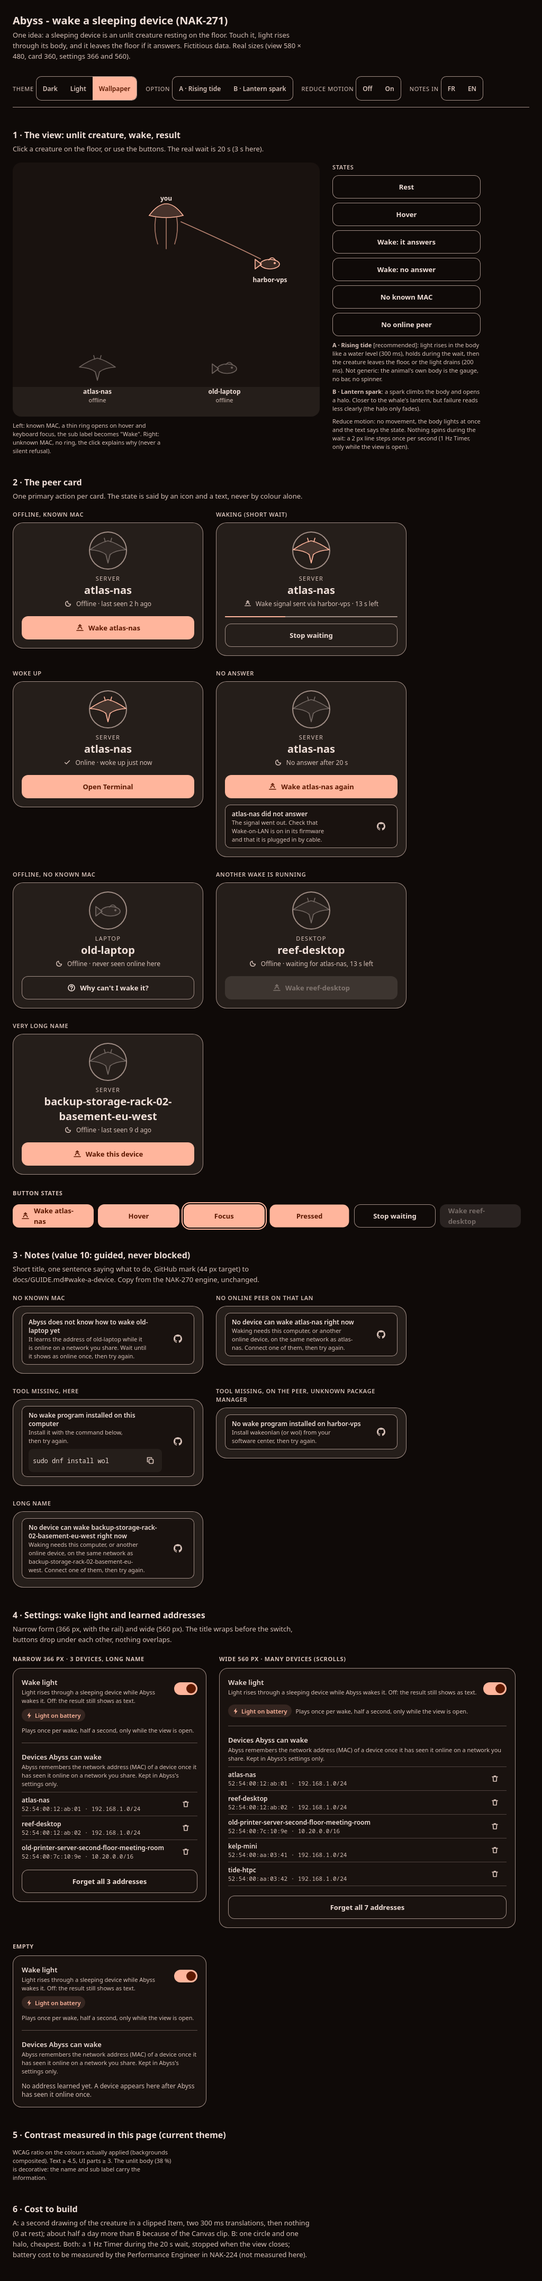
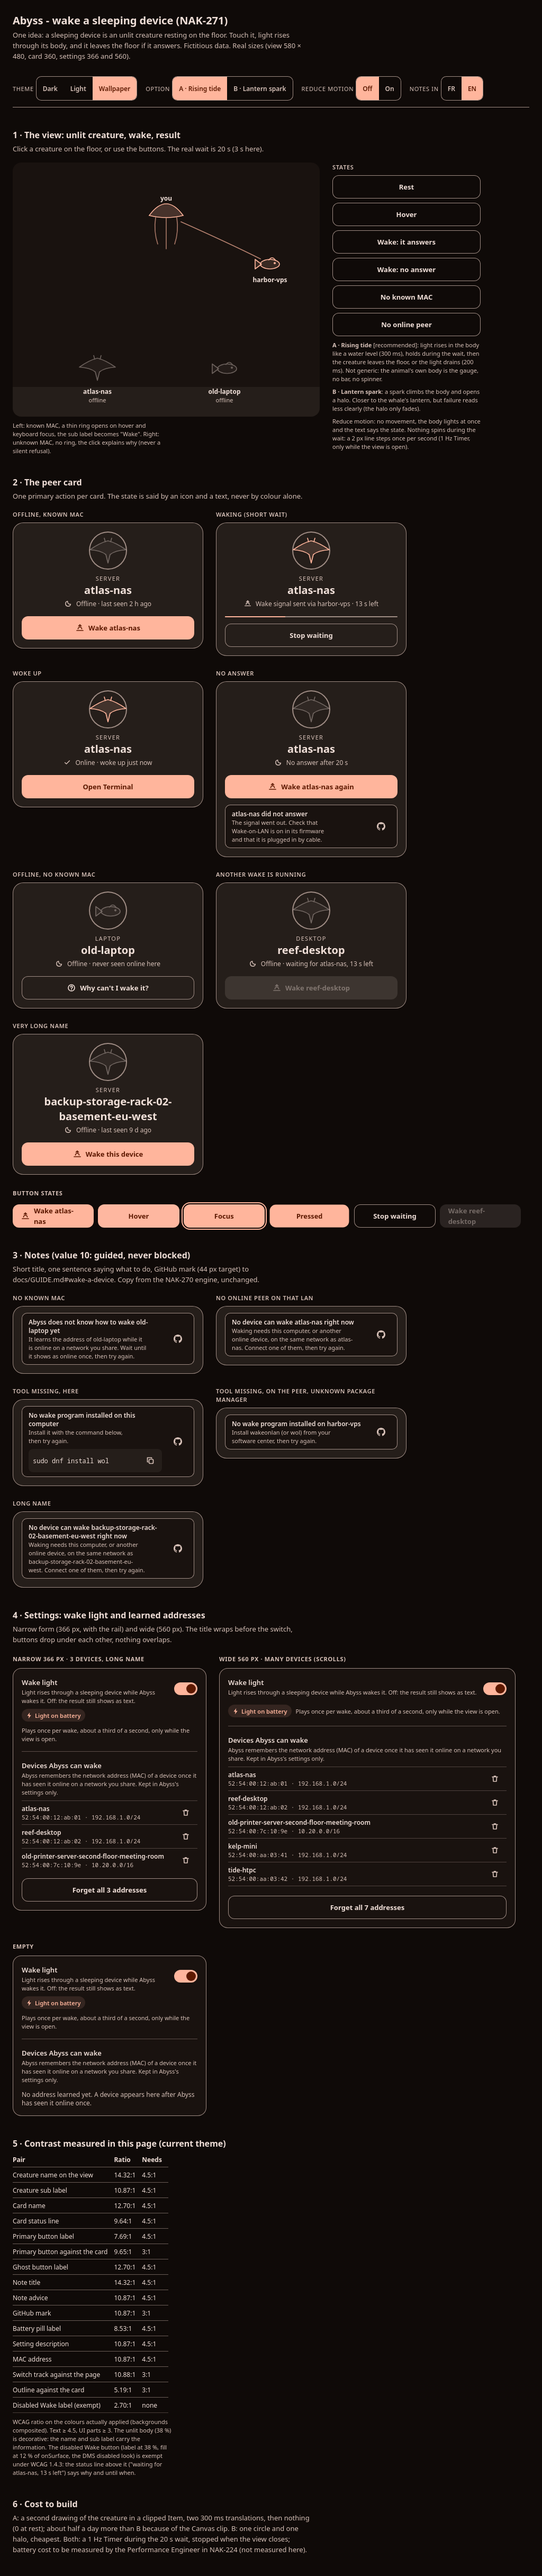
docs(design): wake mockup switches wired, evidence with B and Reduce motion tiles (NAK-271)

diff --git a/docs/design/wake/wake.html b/docs/design/wake/wake.html
@@ -216,7 +216,7 @@ td.bad{color:var(--error);font-weight:700}
 
 <h2>5 · <i data-fr="Contrastes mesurés dans cette page (thème courant)">Contrast measured in this page (current theme)</i></h2>
 <table id="ctr"></table>
-<p class="cap"><i data-fr="Calcul WCAG sur les couleurs réellement appliquées (fonds composés). Texte ≥ 4.5, parties d'interface ≥ 3. Le corps éteint (38 %) est décoratif : le nom et le sous-titre portent l'information.">WCAG ratio on the colours actually applied (backgrounds composited). Text ≥ 4.5, UI parts ≥ 3. The unlit body (38 %) is decorative: the name and sub label carry the information.</i></p>
+<p class="cap"><i data-fr="Calcul WCAG sur les couleurs réellement appliquées (fonds composés). Texte ≥ 4.5, parties d'interface ≥ 3. Le corps éteint (38 %) est décoratif : le nom et le sous-titre portent l'information. Le bouton Wake désactivé (texte à 38 %, fond à 12 % de onSurface, l'aspect désactivé de DMS) est exempté par WCAG 1.4.3 : la ligne d'état au-dessus (« waiting for atlas-nas, 13 s left ») dit pourquoi et jusqu'à quand.">WCAG ratio on the colours actually applied (backgrounds composited). Text ≥ 4.5, UI parts ≥ 3. The unlit body (38 %) is decorative: the name and sub label carry the information. The disabled Wake button (label at 38 %, fill at 12 % of onSurface, the DMS disabled look) is exempt under WCAG 1.4.3: the status line above it ("waiting for atlas-nas, 13 s left") says why and until when.</i></p>
 
 <h2>6 · <i data-fr="Coût de construction">Cost to build</i></h2>
 <p class="lead"><i data-fr="A : un second dessin de la créature dans un Item à clip, deux translations de 300 ms, puis plus rien (0 au repos) ; environ une demi-journée de plus que B à cause du clip sur Canvas. B : un cercle et un halo, le moins cher. Les deux : Timer 1 Hz pendant 20 s d'attente, arrêté vue fermée ; coût batterie à mesurer par le Performance Engineer dans NAK-224 (non mesuré ici).">A: a second drawing of the creature in a clipped Item, two 300 ms translations, then nothing (0 at rest); about half a day more than B because of the Canvas clip. B: one circle and one halo, cheapest. Both: a 1 Hz Timer during the 20 s wait, stopped when the view closes; battery cost to be measured by the Performance Engineer in NAK-224 (not measured here).</i></p>
@@ -250,7 +250,7 @@ $('#notes').innerHTML=[
 const macs=[['atlas-nas','52:54:00:12:ab:01','192.168.1.0/24'],['reef-desktop','52:54:00:12:ab:02','192.168.1.0/24'],['old-printer-server-second-floor-meeting-room','52:54:00:7c:10:9e','10.20.0.0/16'],['kelp-mini','52:54:00:aa:03:41','192.168.1.0/24'],['tide-htpc','52:54:00:aa:03:42','192.168.1.0/24'],['coral-build','52:54:00:aa:03:43','10.20.0.0/16'],['drift-pi','52:54:00:aa:03:44','192.168.1.0/24']];
 const setBox=(cls,h,rows)=>`<div><h3 style="font-size:11px;color:var(--dim);text-transform:uppercase;letter-spacing:.06em;margin:0 0 8px">${h}</h3><div class="set ${cls}">
  <div class="srow"><div><div class="st1">Wake light</div><div class="st2">Light rises through a sleeping device while Abyss wakes it. Off: the result still shows as text.</div></div><button class="sw" role="switch" aria-checked="true" aria-label="Wake light"><i></i></button></div>
- <div class="pillrow"><span class="pill">${ico('bolt',13)}Light on battery</span><span class="st2">Plays once per wake, half a second, only while the view is open.</span></div>
+ <div class="pillrow"><span class="pill">${ico('bolt',13)}Light on battery</span><span class="st2">Plays once per wake, about a third of a second, only while the view is open.</span></div>
  <div class="sep"></div>
  <div class="st1">Devices Abyss can wake</div><div class="st2">Abyss remembers the network address (MAC) of a device once it has seen it online on a network you share. Kept in Abyss's settings only.</div>
  ${rows.length?`<div class="list" tabindex="0">${rows.map(m=>`<div class="mac"><div><div class="n">${m[0]}</div><div class="a">${m[1]} · ${m[2]}</div></div><button class="x" aria-label="Forget ${m[0]}">${ico('bin')}</button></div>`).join('')}</div>
@@ -269,22 +269,20 @@ function wake(ok){reset();c1.classList.remove('can');c1.classList.add('rise','li
 c1.onclick=()=>wake(true);$('#c2').onclick=()=>showNote('nomac');
 document.querySelectorAll('[data-s]').forEach(b=>b.onclick=()=>{const s=b.dataset.s;if(s=='rest')reset();else if(s=='hover'){reset();c1.classList.add('hov')}else if(s=='woke')wake(true);else if(s=='none')wake(false);else showNote(s)});
 
-/* switches */
-const fr={};document.querySelectorAll('[data-fr]').forEach(e=>e.dataset.en=e.textContent);
-function lang(v){document.querySelectorAll('[data-fr]').forEach(e=>e.textContent=v=='fr'?e.dataset.fr:e.dataset.en)}
-document.querySelectorAll('.seg').forEach(g=>{const bs=[...g.children],vals=bs.map(b=>b.dataset.v).filter(Boolean);
- const set=v=>{bs.forEach(b=>b.setAttribute('aria-pressed',b.dataset.v==v));if(g.dataset.g=='lang')lang(v);else{vals.forEach(x=>document.body.classList.remove(x));if(v)document.body.classList.add(v)}measure()};
- bs.forEach(b=>b.onclick=()=>set(b.dataset.v));set(g.dataset.g=='lang'?'fr':g.dataset.g=='opt'?'optA':'')});
-
 /* contrast: composite every ancestor background, then WCAG ratio */
-function rgba(s){const d=document.createElement('canvas').getContext('2d');d.fillStyle='#000';d.fillStyle=s;d.fillRect(0,0,1,1);const m=getComputedStyle(Object.assign(document.createElement('i'),{style:'color:'+s}));const c=document.createElement('canvas');c.width=c.height=1;const x=c.getContext('2d');x.clearRect(0,0,1,1);x.fillStyle=s;x.fillRect(0,0,1,1);const p=x.getImageData(0,0,1,1).data;return[p[0],p[1],p[2],p[3]/255]}
+function rgba(s){const c=document.createElement('canvas');c.width=c.height=1;const x=c.getContext('2d');x.fillStyle=s;x.fillRect(0,0,1,1);const p=x.getImageData(0,0,1,1).data;return[p[0],p[1],p[2],p[3]/255]}
 const over=(f,b)=>[0,1,2].map(i=>f[i]*f[3]+b[i]*(1-f[3])).concat(1);
 function bgOf(e){const ch=[];for(let n=e;n&&n.nodeType==1;n=n.parentElement)ch.push(rgba(getComputedStyle(n).backgroundColor));let b=[255,255,255,1];ch.reverse().forEach(c=>b=over(c,b));return b}
 const lum=c=>[0,1,2].map(i=>{const v=c[i]/255;return v<=.03928?v/12.92:((v+.055)/1.055)**2.4}).reduce((a,v,i)=>a+v*[.2126,.7152,.0722][i],0);
 function ratio(e,prop){const b=bgOf(prop=='self'?e.parentElement:e),f=over(rgba(prop=='self'?getComputedStyle(e).backgroundColor:getComputedStyle(e)[prop||'color']),b),a=lum(f),c=lum(b);return(Math.max(a,c)+.05)/(Math.min(a,c)+.05)}
-function measure(){const rows=[['Creature name on the view','.cr .nm','color',4.5],['Creature sub label','.cr .sub','color',4.5],['Card name','.card .name','color',4.5],['Card status line','.card .st','color',4.5],['Primary button label','.card .btn:not(.ghost):not([disabled])','color',4.5],['Primary button against the card','.card .btn:not(.ghost):not([disabled])','self',3],['Ghost button label','.card .btn.ghost','color',4.5],['Note title','.hn b','color',4.5],['Note advice','.hn span','color',4.5],['GitHub mark','.hn .gh','color',3],['Battery pill label','.pill','color',4.5],['Setting description','.set .st2','color',4.5],['MAC address','.mac .a','color',4.5],['Switch track against the page','.sw','self',3],['Outline against the card','.card','borderTopColor',3]];
- $('#ctr').innerHTML='<tr><th>Pair</th><th>Ratio</th><th>Needs</th></tr>'+rows.map(([n,s,p,min])=>{const e=$(s);if(!e)return'';const r=ratio(e,p);return`<tr><td>${n}</td><td class="${r<min?'bad':''}">${r.toFixed(2)}:1</td><td>${min}:1</td></tr>`}).join('')}
-measure();
+function measure(){const rows=[['Creature name on the view','.cr .nm','color',4.5],['Creature sub label','.cr .sub','color',4.5],['Card name','.card .name','color',4.5],['Card status line','.card .st','color',4.5],['Primary button label','.card .btn:not(.ghost):not([disabled])','color',4.5],['Primary button against the card','.card .btn:not(.ghost):not([disabled])','self',3],['Ghost button label','.card .btn.ghost','color',4.5],['Note title','.hn b','color',4.5],['Note advice','.hn span','color',4.5],['GitHub mark','.hn .gh','color',3],['Battery pill label','.pill','color',4.5],['Setting description','.set .st2','color',4.5],['MAC address','.mac .a','color',4.5],['Switch track against the page','.sw','self',3],['Outline against the card','.card','borderTopColor',3],['Disabled Wake label (exempt)','.card .btn[disabled]','color',0]];
+ $('#ctr').innerHTML='<tr><th>Pair</th><th>Ratio</th><th>Needs</th></tr>'+rows.map(([n,s,p,min])=>{const e=$(s);if(!e)return'';const r=ratio(e,p);return`<tr><td>${n}</td><td class="${r<min?'bad':''}">${r.toFixed(2)}:1</td><td>${min?min+':1':'none'}</td></tr>`}).join('')}
+/* switches: declared last, each one re-measures and so needs the contrast helpers above */
+document.querySelectorAll('[data-fr]').forEach(e=>e.dataset.en=e.textContent);
+function lang(v){document.querySelectorAll('[data-fr]').forEach(e=>e.textContent=v=='fr'?e.dataset.fr:e.dataset.en)}
+document.querySelectorAll('.seg').forEach(g=>{const bs=[...g.children],vals=bs.map(b=>b.dataset.v).filter(Boolean);
+ const set=v=>{bs.forEach(b=>b.setAttribute('aria-pressed',b.dataset.v==v));if(g.dataset.g=='lang')lang(v);else{vals.forEach(x=>document.body.classList.remove(x));if(v)document.body.classList.add(v)}measure()};
+ bs.forEach(b=>b.onclick=()=>set(b.dataset.v));set(g.dataset.g=='lang'?'fr':g.dataset.g=='opt'?'optA':'')});
 </script>
 </body>
 </html>

diff --git a/docs/design/wake/snap_wake.py b/docs/design/wake/snap_wake.py
@@ -3,8 +3,11 @@
 
 The page is rendered by WebKitGTK on a private broadway display, so nothing
 appears on the live session. One sheet per theme: the 580 x 480 view at rest,
-hovered, waking, woke up and with no answer, side by side at 1x, plus one
-capture of the whole page. The page stays the thing judged; these are test
+hovered, waking, woke up and with no answer (option A), then option B waking
+and woke up, then Reduce motion, side by side at 1x, plus one capture of the
+whole page. This WebKit has no GL and does not advance CSS transitions on a
+steady clock, so they are switched off for the captures: each tile is the end
+state of its step. A probe then clicks every switch and prints what changed. The page stays the thing judged; these are test
 evidence only. Standard library, GTK 4, WebKitGTK 6.
 """
 import json
@@ -30,18 +33,34 @@ from gi.repository import GLib, Gtk, WebKit  # noqa: E402
 THEMES = {"dark": "", "light": "light", "wall": "wall"}
 # State button to press, then the delay before the capture: the mock waits 3 s,
 # so 1500 ms is mid-wait and 4600 ms is after the result has settled.
-STATES = [("rest", "rest", 400), ("hover", "hover", 400), ("waking", "woke", 1500),
-          ("woke", "woke", 4600), ("no-answer", "none", 4600)]
-SHOTS = [(t, s) for t in THEMES for s in STATES] + [(t, ("page", "rest", 400)) for t in THEMES]
+# Fourth and fifth fields: option class and Reduce motion class set by the page switches.
+STATES = [("rest", "rest", 400, "optA", ""), ("hover", "hover", 400, "optA", ""),
+          ("waking", "woke", 1500, "optA", ""), ("woke", "woke", 4600, "optA", ""),
+          ("no-answer", "none", 4600, "optA", ""), ("b-waking", "woke", 1500, "optB", ""),
+          ("b-woke", "woke", 4600, "optB", ""), ("rm-waking", "woke", 1500, "optA", "rm")]
+SHOTS = [(t, s) for t in THEMES for s in STATES] + [(t, ("page", "rest", 400, "optA", "")) for t in THEMES]
 # Returns the view rectangle in page coordinates and the boxes the layout rule is checked on.
-SETUP = """document.querySelector('.seg[data-g=theme] button[data-v="%s"]').click();
+SETUP = """if(!document.getElementById('snapfix')){var st=document.createElement('style');st.id='snapfix';
+st.textContent='*{transition:none!important}';document.head.appendChild(st)}
+var sw=function(g,v){document.querySelector('.seg[data-g='+g+'] button[data-v="'+v+'"]').click()};
+sw('theme','%s');sw('opt','%s');sw('rm','%s');sw('lang','');
 document.querySelector('[data-s=%s]').click();"""
+# Proof that the four switches are wired: each click must change the page.
+PROBE = """var r={};try{measure();r.measure='ok'}catch(e){r.measure=String(e)}
+var sw=function(g,v){document.querySelector('.seg[data-g='+g+'] button[data-v="'+v+'"]').click()};
+sw('opt','optB');r.afterB=document.body.className;sw('rm','rm');r.afterRm=document.body.className;
+sw('theme','light');r.afterLight=document.body.className;
+sw('lang','fr');r.fr=document.querySelector('[data-fr]').textContent;
+sw('lang','');r.en=document.querySelector('[data-fr]').textContent;
+r.rows=document.querySelectorAll('#ctr tr').length;r.bad=document.querySelectorAll('#ctr .bad').length;
+r.table=[].map.call(document.querySelectorAll('#ctr tr'),function(t){return t.textContent});
+JSON.stringify(r)"""
 BOXES = """var q=function(s){var r=document.querySelector(s).getBoundingClientRect();return [r.left+scrollX,r.top+scrollY,r.width,r.height]};
 JSON.stringify({scene:q('#scene'),body:q('#c1 .body'),lvl:q('#c1 .lvl'),ring:q('#c1 .ring'),nm:q('#c1 .nm'),floor:q('.floor'),hero:q('.card .hero'),pill:q('.pill'),kind:q('.card .kind')})"""
 
 
 def capture(app, view, shots, got):
-    theme, (name, button, settle) = shots[0]
+    theme, (name, button, settle, opt, rm) = shots[0]
 
     def settled():
         view.evaluate_javascript(BOXES, -1, None, None, None, snap)
@@ -57,9 +76,13 @@ def capture(app, view, shots, got):
         if shots[1:]:
             GLib.timeout_add(100, capture, app, view, shots[1:], got)
         else:
-            app.quit()
+            view.evaluate_javascript(PROBE, -1, None, None, None, probed)
 
-    view.evaluate_javascript(SETUP % (THEMES[theme], button), -1, None, None, None,
+    def probed(v, res):
+        got["probe"] = json.loads(v.evaluate_javascript_finish(res).to_string())
+        app.quit()
+
+    view.evaluate_javascript(SETUP % (THEMES[theme], opt, rm, button), -1, None, None, None,
                              lambda v, res: GLib.timeout_add(settle, settled))
     return False
 
@@ -73,10 +96,10 @@ def surface_of(texture):
 
 
 def sheet(theme, got):
-    """The five view states in one row, cropped from the page at 1x."""
+    """The view states in one row, cropped from the page at 1x."""
     out = cairo.ImageSurface(cairo.FORMAT_RGB24, 580 * len(STATES), 480)
     ctx = cairo.Context(out)
-    for i, (name, _, _) in enumerate(STATES):
+    for i, (name, *_) in enumerate(STATES):
         tex, boxes = got[(theme, name)]
         x, y = boxes["scene"][:2]
         ctx.set_source_surface(surface_of(tex), i * 580 - round(x), -round(y))
@@ -106,8 +129,9 @@ def main():
         DAEMON.terminate()
     for theme in THEMES:
         sheet(theme, got)
-    for name, _, _ in STATES:
+    for name, *_ in STATES:
         print(name, json.dumps(got[("dark", name)][1]))
+    print("probe", json.dumps(got["probe"], ensure_ascii=False, indent=1))
 
 
 if __name__ == "__main__":
